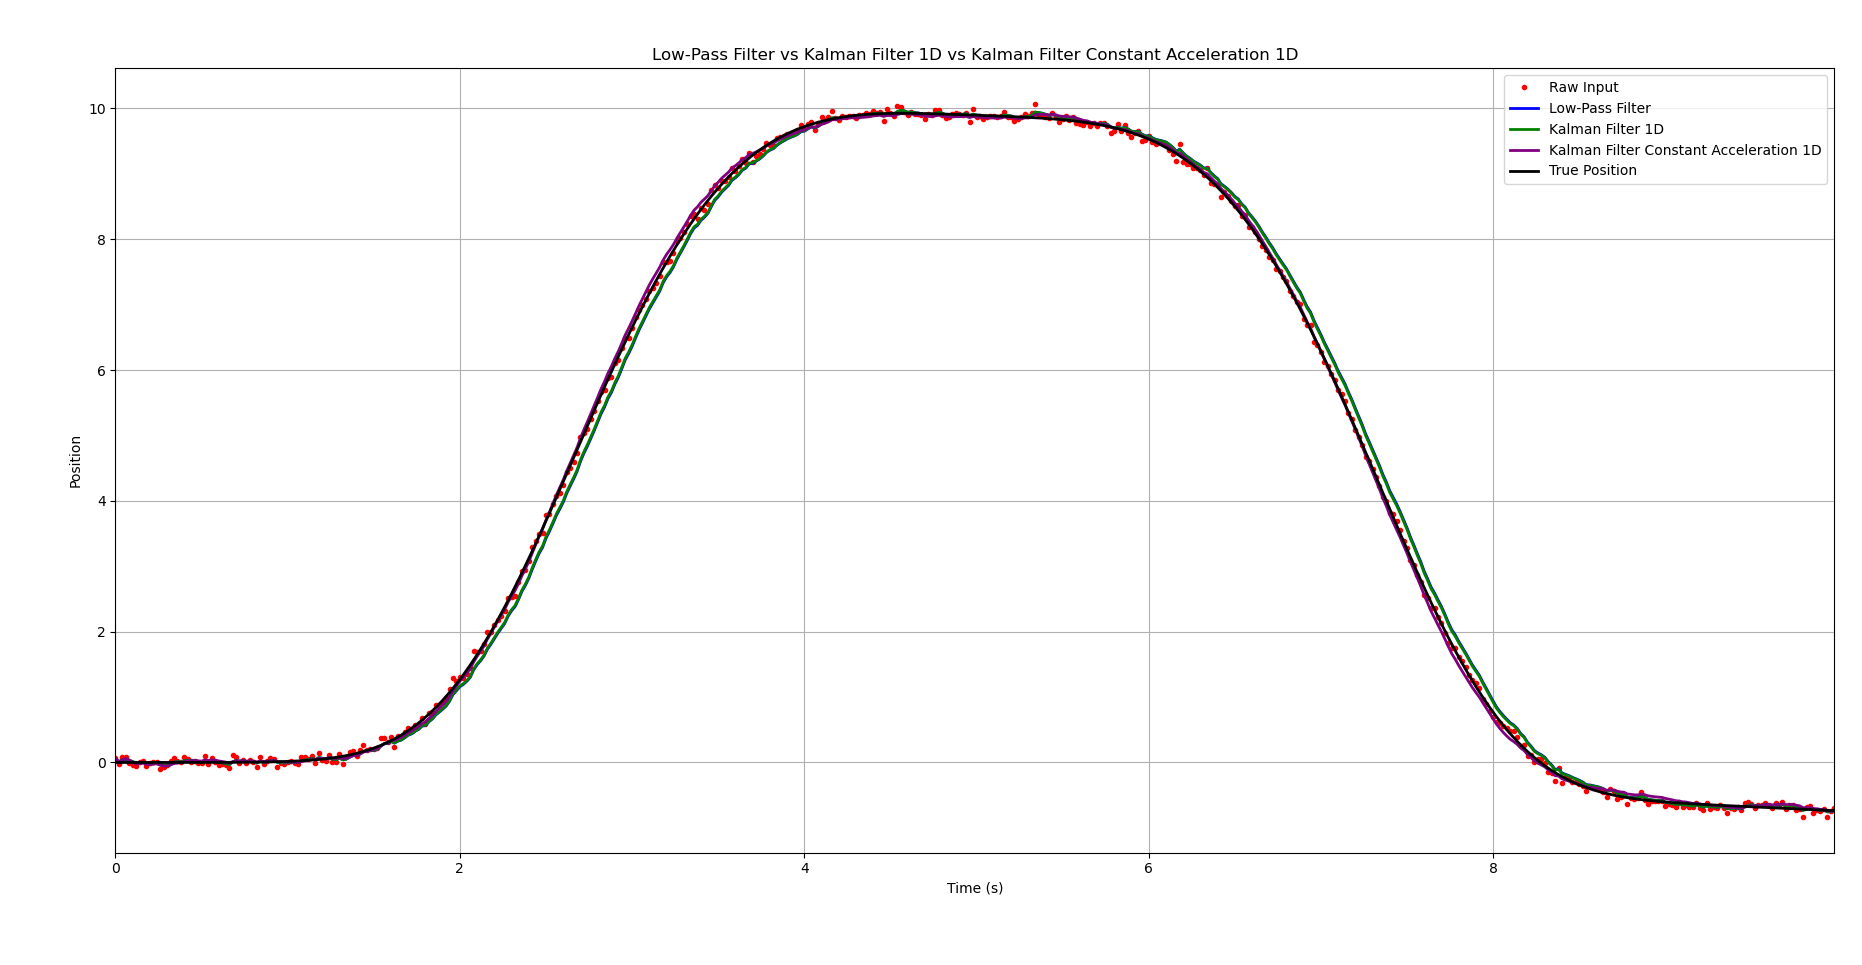
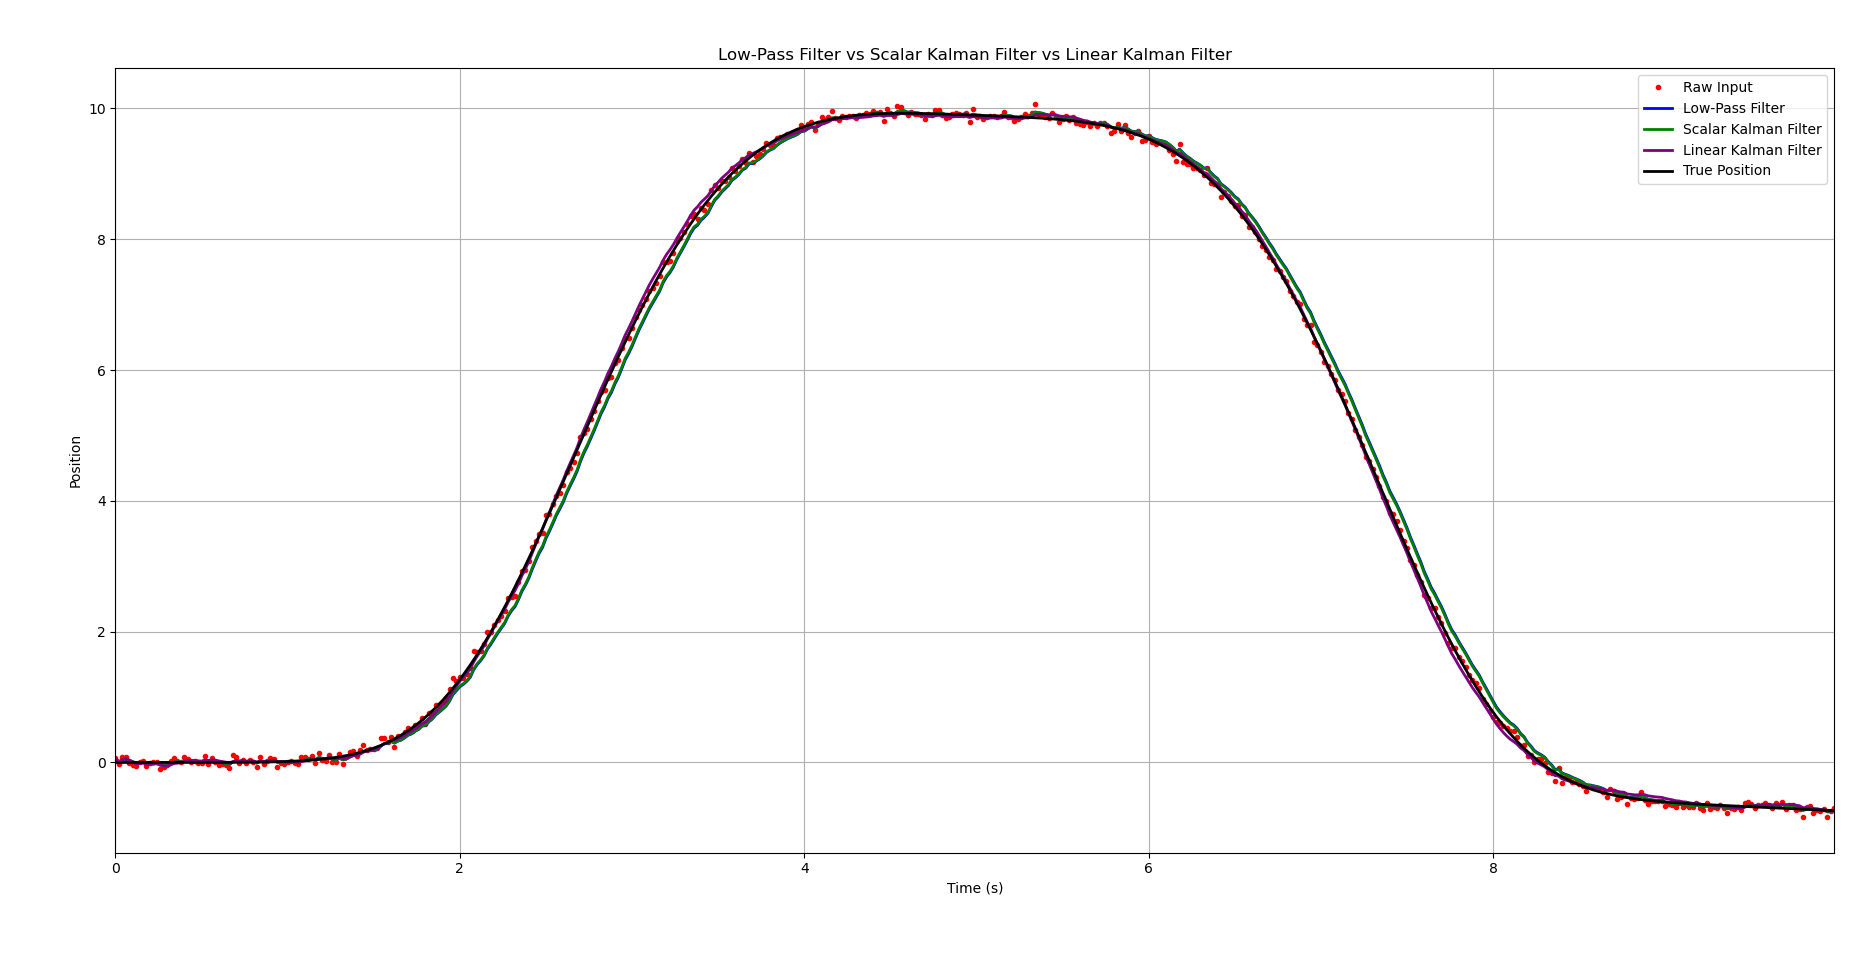
docs: fix math formatting and improve experiment plots
Use fenced math blocks and consistent inline notation in results.md.
Show raw Mehra measurements as dots and mark the correlation start after 200 samples.
Emphasize PASS/FAIL results and clarify plot labels and titles.
Update result figures and remove the redundant method.md.

Changed region(s): [[0.8099, 0.0622, 0.9968, 0.1865], [0.3426, 0.0311, 0.6853, 0.0622]]

diff --git a/scripts/plot_mehra_q_comparison.py b/scripts/plot_mehra_q_comparison.py
@@ -20,8 +20,8 @@ zoom_end_time = 70.0
 fig, axes = plt.subplots(3, 3, figsize=(18, 12), sharex=False)
 
 # Larger Q
+axes[0][0].plot(filter_output_data_q_larger["time"], filter_output_data_q_larger["raw_position"], label="Raw Position", color="red", marker=".", linestyle="None", markersize=3)
 axes[0][0].plot(filter_output_data_q_larger["time"], filter_output_data_q_larger["true_position"], label="True Position", color="black", linewidth=1)
-axes[0][0].plot(filter_output_data_q_larger["time"], filter_output_data_q_larger["raw_position"], label="Raw Position", color="red", linewidth=1)
 axes[0][0].plot(filter_output_data_q_larger["time"], filter_output_data_q_larger["estimated_position"], label="Estimated Position", color="blue", linewidth=1)
 axes[0][0].set_title("Larger Q", fontsize=14)
 axes[0][0].set_ylabel("Position")
@@ -34,7 +34,7 @@ zoom_data_q_larger = filter_output_data_q_larger[
     & (filter_output_data_q_larger["time"] <= zoom_end_time)
 ]
 
-axes[1][0].plot(zoom_data_q_larger["time"], zoom_data_q_larger["raw_position"], color="red", linewidth=1, label="Raw Position")
+axes[1][0].plot(zoom_data_q_larger["time"], zoom_data_q_larger["raw_position"], color="red", marker=".", linestyle="None", markersize=3, label="Raw Position")
 axes[1][0].plot(zoom_data_q_larger["time"], zoom_data_q_larger["true_position"], color="black", linewidth=1.5, label="True Position")
 axes[1][0].plot(zoom_data_q_larger["time"], zoom_data_q_larger["estimated_position"], color="blue", linewidth=1.5, label="Estimated Position")
 axes[1][0].set_xlim(zoom_start_time, zoom_end_time)
@@ -65,13 +65,13 @@ passes_test_q_larger = values_outside_bounds_q_larger < 0.05 * values_checked_q_
 if passes_test_q_larger:
     axes[2][0].set_title(
         f"Outside bounds: {values_outside_bounds_q_larger}/{values_checked_q_larger} "
-        f"({outside_percentage_q_larger:.1f}%) < 5%\nWhiteness test: PASS",
+        f"({outside_percentage_q_larger:.1f}%) < 5%\nWhiteness test: $\\mathbf{{PASS}}$",
         fontsize=10
     )
 else:
     axes[2][0].set_title(
         f"Outside bounds: {values_outside_bounds_q_larger}/{values_checked_q_larger} "
-        f"({outside_percentage_q_larger:.1f}%) >= 5%\nWhiteness test: FAIL",
+        f"({outside_percentage_q_larger:.1f}%) $\\geq$ 5%\nWhiteness test: $\\mathbf{{FAIL}}$",
         fontsize=10
     )
 
@@ -80,8 +80,8 @@ axes[2][0].grid(True)
 
 
 # Matched Q
+axes[0][1].plot(filter_output_data_q_matched["time"], filter_output_data_q_matched["raw_position"], label="Raw Position", color="red", marker=".", linestyle="None", markersize=3)
 axes[0][1].plot(filter_output_data_q_matched["time"], filter_output_data_q_matched["true_position"], label="True Position", color="black", linewidth=1)
-axes[0][1].plot(filter_output_data_q_matched["time"], filter_output_data_q_matched["raw_position"], label="Raw Position", color="red", linewidth=1)
 axes[0][1].plot(filter_output_data_q_matched["time"], filter_output_data_q_matched["estimated_position"], label="Estimated Position", color="blue", linewidth=1)
 axes[0][1].set_title("Matched Q", fontsize=14)
 axes[0][1].set_ylabel("Position")
@@ -94,7 +94,7 @@ zoom_data_q_matched = filter_output_data_q_matched[
     & (filter_output_data_q_matched["time"] <= zoom_end_time)
 ]
 
-axes[1][1].plot(zoom_data_q_matched["time"], zoom_data_q_matched["raw_position"], color="red", linewidth=1, label="Raw Position")
+axes[1][1].plot(zoom_data_q_matched["time"], zoom_data_q_matched["raw_position"], color="red", marker=".", linestyle="None", markersize=3, label="Raw Position")
 axes[1][1].plot(zoom_data_q_matched["time"], zoom_data_q_matched["true_position"], color="black", linewidth=1.5, label="True Position")
 axes[1][1].plot(zoom_data_q_matched["time"], zoom_data_q_matched["estimated_position"], color="blue", linewidth=1.5, label="Estimated Position")
 axes[1][1].set_xlim(zoom_start_time, zoom_end_time)
@@ -125,13 +125,13 @@ passes_test_q_matched = values_outside_bounds_q_matched < 0.05 * values_checked_
 if passes_test_q_matched:
     axes[2][1].set_title(
         f"Outside bounds: {values_outside_bounds_q_matched}/{values_checked_q_matched} "
-        f"({outside_percentage_q_matched:.1f}%) < 5%\nWhiteness test: PASS",
+        f"({outside_percentage_q_matched:.1f}%) < 5%\nWhiteness test: $\\mathbf{{PASS}}$",
         fontsize=10
     )
 else:
     axes[2][1].set_title(
         f"Outside bounds: {values_outside_bounds_q_matched}/{values_checked_q_matched} "
-        f"({outside_percentage_q_matched:.1f}%) >= 5%\nWhiteness test: FAIL",
+        f"({outside_percentage_q_matched:.1f}%) $\\geq$ 5%\nWhiteness test: $\\mathbf{{FAIL}}$",
         fontsize=10
     )
 
@@ -140,8 +140,8 @@ axes[2][1].grid(True)
 
 
 # Smaller Q
+axes[0][2].plot(filter_output_data_q_smaller["time"], filter_output_data_q_smaller["raw_position"], label="Raw Position", color="red", marker=".", linestyle="None", markersize=3)
 axes[0][2].plot(filter_output_data_q_smaller["time"], filter_output_data_q_smaller["true_position"], label="True Position", color="black", linewidth=1)
-axes[0][2].plot(filter_output_data_q_smaller["time"], filter_output_data_q_smaller["raw_position"], label="Raw Position", color="red", linewidth=1)
 axes[0][2].plot(filter_output_data_q_smaller["time"], filter_output_data_q_smaller["estimated_position"], label="Estimated Position", color="blue", linewidth=1)
 axes[0][2].set_title("Smaller Q", fontsize=14)
 axes[0][2].set_ylabel("Position")
@@ -154,7 +154,7 @@ zoom_data_q_smaller = filter_output_data_q_smaller[
     & (filter_output_data_q_smaller["time"] <= zoom_end_time)
 ]
 
-axes[1][2].plot(zoom_data_q_smaller["time"], zoom_data_q_smaller["raw_position"], color="red", linewidth=1, label="Raw Position")
+axes[1][2].plot(zoom_data_q_smaller["time"], zoom_data_q_smaller["raw_position"], color="red", marker=".", linestyle="None", markersize=3, label="Raw Position")
 axes[1][2].plot(zoom_data_q_smaller["time"], zoom_data_q_smaller["true_position"], color="black", linewidth=1.5, label="True Position")
 axes[1][2].plot(zoom_data_q_smaller["time"], zoom_data_q_smaller["estimated_position"], color="blue", linewidth=1.5, label="Estimated Position")
 axes[1][2].set_xlim(zoom_start_time, zoom_end_time)
@@ -185,13 +185,13 @@ passes_test_q_smaller = values_outside_bounds_q_smaller < 0.05 * values_checked_
 if passes_test_q_smaller:
     axes[2][2].set_title(
         f"Outside bounds: {values_outside_bounds_q_smaller}/{values_checked_q_smaller} "
-        f"({outside_percentage_q_smaller:.1f}%) < 5%\nWhiteness test: PASS",
+        f"({outside_percentage_q_smaller:.1f}%) < 5%\nWhiteness test: $\\mathbf{{PASS}}$",
         fontsize=10
     )
 else:
     axes[2][2].set_title(
         f"Outside bounds: {values_outside_bounds_q_smaller}/{values_checked_q_smaller} "
-        f"({outside_percentage_q_smaller:.1f}%) >= 5%\nWhiteness test: FAIL",
+        f"({outside_percentage_q_smaller:.1f}%) $\\geq$ 5%\nWhiteness test: $\\mathbf{{FAIL}}$",
         fontsize=10
     )
 

diff --git a/scripts/plot_mehra_whiteness.py b/scripts/plot_mehra_whiteness.py
@@ -6,10 +6,13 @@ autocorrelation_data = pd.read_csv("./build/examples/normalized_autocorrelation_
 
 bound = autocorrelation_data["bound"].iloc[0]
 
+num_innovations_to_skip = 200
+correlation_start_time = filter_output_data["time"].iloc[num_innovations_to_skip]
+
 fig, axes = plt.subplots(3, 2, figsize=(10, 8), sharex=False)
 
+axes[0][0].plot(filter_output_data["time"], filter_output_data["raw_position"], label="Raw Position", color="red", marker=".", linestyle="None", markersize=3)
 axes[0][0].plot(filter_output_data["time"], filter_output_data["true_position"], label="True Position", color="black", linewidth=1)
-axes[0][0].plot(filter_output_data["time"], filter_output_data["raw_position"], label="Raw Position", color="red", linewidth=1)
 axes[0][0].plot(filter_output_data["time"], filter_output_data["estimated_position"], label="Estimated Position", color="blue", linewidth=1)
 axes[0][0].set_ylabel("Position")
 axes[0][0].set_xlabel("Time (s)")
@@ -23,18 +26,21 @@ axes[1][0].legend()
 axes[1][0].grid(True)
 
 axes[0][1].plot(filter_output_data["time"], filter_output_data["pos_gain"], label="Position Gain", color="red", linewidth=2)
+axes[0][1].axvline(correlation_start_time, color="black", linestyle="-.", linewidth=1.5, label="Correlation data start")
 axes[0][1].set_ylabel("Position Gain")
 axes[0][1].set_xlabel("Time (s)")
 axes[0][1].legend()
 axes[0][1].grid(True)
 
 axes[1][1].plot(filter_output_data["time"], filter_output_data["vel_gain"], label="Velocity Gain", color="red", linewidth=2)
+axes[1][1].axvline(correlation_start_time, color="black", linestyle="-.", linewidth=1.5, label="Correlation data start")
 axes[1][1].set_ylabel("Velocity Gain")
 axes[1][1].set_xlabel("Time (s)")
 axes[1][1].legend()
 axes[1][1].grid(True)
 
 axes[2][1].plot(filter_output_data["time"], filter_output_data["acc_gain"], label="Acceleration Gain", color="red", linewidth=2)
+axes[2][1].axvline(correlation_start_time, color="black", linestyle="-.", linewidth=1.5, label="Correlation data start")
 axes[2][1].set_xlabel("Time (s)")
 axes[2][1].set_ylabel("Acceleration Gain")
 axes[2][1].legend()
@@ -64,12 +70,12 @@ passes_test = values_outside_bounds < 0.05 * values_checked
 if passes_test:
     axes[2][0].set_title(
         f"Outside bounds: {values_outside_bounds}/{values_checked} "
-        f"({outside_percentage:.1f}%) < 5% — Whiteness test: PASS"
+        f"({outside_percentage:.1f}%) < 5% — Whiteness test: $\\mathbf{{PASS}}$"
     )
 else:
     axes[2][0].set_title(
         f"Outside bounds: {values_outside_bounds}/{values_checked} "
-        f"({outside_percentage:.1f}%) >= 5% — Whiteness test: FAIL"
+        f"({outside_percentage:.1f}%) $\\geq$ 5% — Whiteness test: $\\mathbf{{FAIL}}$"
     )
 
 axes[2][0].legend()
@@ -89,7 +95,7 @@ zoom_data = filter_output_data[
 
 zoom_fig, zoom_axes = plt.subplots(figsize=(10, 5))
 
-zoom_axes.plot(zoom_data["time"], zoom_data["raw_position"], color="red", linewidth=1, label="Raw Position")
+zoom_axes.plot(zoom_data["time"], zoom_data["raw_position"], color="red", marker=".", linestyle="None", markersize=3, label="Raw Position")
 
 zoom_axes.plot(zoom_data["time"], zoom_data["true_position"], color="black", linewidth=1.5, label="True Position")
 
@@ -105,5 +111,3 @@ zoom_axes.grid(True)
 zoom_fig.tight_layout()
 
 plt.show(block=True)
-
-# show kalman gains separate and detailed

diff --git a/scripts/plot_filter_comparison.py b/scripts/plot_filter_comparison.py
@@ -6,14 +6,14 @@ df = pd.read_csv("./build/examples/filter_comparison_data.csv")
 plt.figure(figsize=(10, 5))
 plt.plot(df["time"], df["raw_position"], "ro", markersize=3, label="Raw Input")
 plt.plot(df["time"], df["low_pass"], label="Low-Pass Filter", color="blue", linewidth=2)
-plt.plot(df["time"], df["kalman"], label="Kalman Filter 1D", color="green", linewidth=2)
-plt.plot(df["time"], df["kalman_const_acc"], label="Kalman Filter Constant Acceleration 1D", color="purple", linewidth=2)
+plt.plot(df["time"], df["kalman"], label="Scalar Kalman Filter", color="green", linewidth=2)
+plt.plot(df["time"], df["kalman_const_acc"], label="Linear Kalman Filter", color="purple", linewidth=2)
 plt.plot(df["time"], df["true_position"], label="True Position", color="black", linewidth=2)
 
 plt.xlim(df["time"].iloc[0], df["time"].iloc[-1])
 plt.xlabel("Time (s)")
 plt.ylabel("Position")
-plt.title("Low-Pass Filter vs Kalman Filter 1D vs Kalman Filter Constant Acceleration 1D")
+plt.title("Low-Pass Filter vs Scalar Kalman Filter vs Linear Kalman Filter")
 plt.legend()
 plt.grid(True)
 

diff --git a/scripts/plot_tracking_2d.py b/scripts/plot_tracking_2d.py
@@ -7,6 +7,7 @@ fig, axes = plt.subplots(2, 1, figsize=(10, 8), sharex=True)
 
 axes[0].plot(df["time"], df["vel_x_est"], marker="o", label="vel x est - time", color="blue", linewidth=2)
 axes[0].set_ylabel("Vel x est")
+axes[0].set_title("vel x est - time")
 axes[0].legend()
 axes[0].grid(True)
 

diff --git a/docs/results.md b/docs/results.md
@@ -2,22 +2,22 @@
 
 ## Whiteness test and linear kalman filter
 
-[mehra_q_comparison_demo.cpp](../examples/mehra_q_comparison_demo.cpp) and [mehra_whiteness_demo.cpp](../examples/mehra_whiteness_demo.cpp) use the test from Mehra's Section V, implemented in [innovation_analysis.cpp](../src/innovation_analysis.cpp), to analyse correlations between the innovations of a linear Kalman filter and examine how differences between $Q_{assumed}$ and $Q_{true}$ affect these correlations. The same test can also be used to examine the effect of differences between $R_{assumed}$ and $R_{true}$.
+[mehra_q_comparison_demo.cpp](../examples/mehra_q_comparison_demo.cpp) and [mehra_whiteness_demo.cpp](../examples/mehra_whiteness_demo.cpp) use the test from Mehra's Section V, implemented in [innovation_analysis.cpp](../src/innovation_analysis.cpp), to analyse correlations between the innovations of a linear Kalman filter and examine how differences between <i>Q</i><sub>assumed</sub> and <i>Q</i><sub>true</sub> affect these correlations. The same test can also be used to examine the effect of differences between <i>R</i><sub>assumed</sub> and <i>R</i><sub>true</sub>.
 
 ### Linear kalman filter 
 
 Linear kalman filter is implemented in [linear_kalman_filter.cpp](../src/linear_kalman_filter.cpp). It uses following state model:
 
-$$
+```math
 x_i=F x_{i-1}+G u_i+w_i,
 \qquad z_i=Hx_i+\epsilon_i.
-$$
+```
 
 The Kalman filter performs the following prediction and update steps:
 
 **Prediction**
 
-$$
+```math
 \begin{aligned}
 \hat{x}_{i|i-1}
 &= F\hat{x}_{i-1|i-1}+Gu_i
@@ -25,11 +25,11 @@ $$
 P_{i|i-1}
 &= FP_{i-1|i-1}F^T+Q_{\mathrm{assumed}}
 \end{aligned}
-$$
+```
 
 **Update**
 
-$$
+```math
 \begin{aligned}
 K_i
 &= P_{i|i-1}H^T
@@ -43,11 +43,11 @@ P_{i|i}
 &= (I-K_iH)P_{i|i-1}(I-K_iH)^T
    +K_iR_{\mathrm{assumed}}K_i^T
 \end{aligned}
-$$
+```
 
 where
 
-$$
+```math
 \begin{array}{ll}
 x_i \in \mathbb{R}^{n_x \times 1}\text{ — state vector}
 &
@@ -73,44 +73,50 @@ K \in \mathbb{R}^{n_x \times n_z}\text{ — kalman gain}
 &
 \qquad P_i \in \mathbb{R}^{n_x \times n_x}\text{ — estimate covariance}
 \end{array}
-$$
+```
 
-$Q_{\mathrm{true}}$ and $R_{\mathrm{true}}$ are the covariances of the simulated process noise and measurement noise, respectively. $Q_{\mathrm{assumed}}$ and $R_{\mathrm{assumed}}$ are the corresponding covariances assumed in the filter equations and may differ from the true values.
+<i>Q</i><sub>true</sub> and <i>R</i><sub>true</sub> are the covariances of the simulated process noise and measurement noise, respectively. <i>Q</i><sub>assumed</sub> and <i>R</i><sub>assumed</sub> are the corresponding covariances assumed in the filter equations and may differ from the true values.
 
 The process and measurement noises are independent of each other and independent across samples.
 
-The notation $\hat{x}_{i|i-1}$ denotes the predicted state estimate before using measurement $z_i$, while $\hat{x}_{i|i}$ denotes the corrected estimate after using it. The same distinction applies to $P_{i|i-1}$ and $P_{i|i}$.
+The notation $`\hat{x}`$<sub>i|i−1</sub> denotes the predicted state estimate before using measurement <i>z</i><sub>i</sub>, while $`\hat{x}`$<sub>i|i</sub> denotes the corrected estimate after using it. The same distinction applies to <i>P</i><sub>i|i−1</sub> and <i>P</i><sub>i|i</sub>.
 
-The unadorned $x_i$ in the system model denotes the true state; hats mark estimates.
+The unadorned <i>x</i><sub>i</sub> in the system model denotes the true state; hats mark estimates.
 
 ### Whiteness test
 
 Following [Mehra's Section V](https://doi.org/10.1109/TAC.1970.1099422), printed pp. 177–178, the main experiment checks scalar innovations:
 
-$$
+```math
 \nu_i=z_i-H\hat{x}_{i|i-1}.
-$$
+```
 
-After skipping the first $s$ of $T$ samples, $N=T-s$ samples remain.
-For lags $\ell=0,\ldots,L$, where $L$ is the maximum lag, compute
+After skipping the first <i>s</i> of <i>T</i> samples, <i>N</i> = <i>T</i> − <i>s</i> samples remain.
+For lags <i>ℓ</i> = 0, …, <i>L</i>, where <i>L</i> is the maximum lag, compute
 
-$$
-\begin{aligned}
-\widehat C_\ell
-&=\frac{1}{N}\sum_{i=s+\ell}^{T-1}\nu_i\nu_{i-\ell}^{T}
-\\[2em]
+```math
+\widehat{C}_\ell
+=\frac{1}{N}\sum_{i=s+\ell}^{T-1}\nu_i\nu_{i-\ell}^{T}
+```
+
+```math
 [\widehat{\rho}_\ell]_{ij}
-&=
+=
 \frac{[\widehat{C}_\ell]_{ij}}
 {\left([\widehat{C}_0]_{ii}\,[\widehat{C}_0]_{jj}\right)^{1/2}}.
-\end{aligned}
-$$
+```
 
-Here $i,j$ are the row and column indices of the correlation matrix. The test checks only its diagonal elements, where $i=j$.
+Here <i>i</i>, <i>j</i> are the row and column indices of the correlation matrix. The test checks only its diagonal elements, where <i>i</i> = <i>j</i>.
 
 Initial samples are skipped to reduce startup effects. Steady-state operation and zero-mean innovations are assumed, following Mehra.
 
-At lags $1,\ldots,L$, count the correlations outside the approximate 95% bounds $\pm1.96/\sqrt N$. The test passes only when fewer than 5% of the tested correlations lie outside these bounds. Lag zero supplies normalization and is excluded from the count.
+At lags 1, …, <i>L</i>, count the correlations outside the approximate 95% bounds:
+
+```math
+\pm\frac{1.96}{\sqrt{N}}.
+```
+
+The test passes only when fewer than 5% of the tested correlations lie outside these bounds. Lag zero supplies normalization and is excluded from the count.
 
 Passing this finite-sample rule does not prove whiteness.
 
@@ -128,20 +134,20 @@ Visualisation: [plot_mehra_q_comparison.cpp](../scripts/plot_mehra_q_comparison.
 
 | Setting | Value |
 |:---:|:---:|
-| Sampling interval $dt$ | 0.02 s |
+| Sampling interval <i>dt</i> | 0.02 s |
 | Measurements per filter | 4,000 |
-| True initial state $x_0$ | $[0,0.5,0]^T$ |
-| Initial state estimate $\hat{x}_{0\vert0}$ | $[0,0,0]^T$ |
-| Control inputs $u_i$ | $[0]^T$ |
-| Initial estimate covariance $P_{0\vert0}$ | $\begin{bmatrix}1&0&0\\0&1&0\\0&0&1\end{bmatrix}$ |
-| State transition matrix $F$ | $\begin{bmatrix}1&\Delta t&\Delta t^2/2\\0&1&\Delta t\\0&0&1\end{bmatrix}$ |
-| Control matrix $G$ | $[0,0,0]^T$ |
-| Observation matrix $H$ | $[1,0,0]$ |
-| Process noise covariance matrix $Q$ | $q_j\begin{bmatrix}\Delta t^6/36&\Delta t^5/12&\Delta t^4/6\\\Delta t^5/12&\Delta t^4/4&\Delta t^3/2\\\Delta t^4/6&\Delta t^3/2&\Delta t^2\end{bmatrix}$ |
-| True process noise variance $q_{j,\mathrm{true}}$ |  $0.033$ |
-| Assumed process noise variances | $3.3$, $0.033$ and $0.00033$ |
-| True measurement noise variance $R_{\mathrm{true}}$ | $[0.0025]$ |
-| Assumed measurement noise variance $R_{\mathrm{assumed}}$ | $[0.0025]$ |
+| True initial state <i>x</i><sub>0</sub> | [0, 0.5, 0]<sup>T</sup> |
+| Initial state estimate $`\hat{x}`$<sub>0&#124;0</sub> | [0, 0, 0]<sup>T</sup> |
+| Control inputs <i>u</i><sub>i</sub> | [0]<sup>T</sup> |
+| Initial estimate covariance <i>P</i><sub>0&#124;0</sub> | $`\begin{bmatrix}1&0&0\\0&1&0\\0&0&1\end{bmatrix}`$ |
+| State transition matrix <i>F</i> | $`\begin{bmatrix}1&\Delta t&\Delta t^2/2\\0&1&\Delta t\\0&0&1\end{bmatrix}`$ |
+| Control matrix <i>G</i> | [0, 0, 0]<sup>T</sup> |
+| Observation matrix <i>H</i> | [1, 0, 0] |
+| Process noise covariance matrix <i>Q</i> | $`q_j\begin{bmatrix}\Delta t^6/36&\Delta t^5/12&\Delta t^4/6\\\Delta t^5/12&\Delta t^4/4&\Delta t^3/2\\\Delta t^4/6&\Delta t^3/2&\Delta t^2\end{bmatrix}`$ |
+| True process noise variance <i>q</i><sub>j, true</sub> | 0.033 |
+| Assumed process noise variances <i>q</i><sub>j, assumed</sub> | 3.3, 0.033 and 0.00033 |
+| True measurement noise variance <i>R</i><sub>true</sub> | [0.0025] |
+| Assumed measurement noise variance <i>R</i><sub>assumed</sub> | [0.0025] |
 | Startup innovations skipped | 200 |
 | Tested lags | 1–100 |
 
@@ -200,7 +206,7 @@ The bump curve is generated with [synthetic_data.cpp](../examples/data_generatio
 
 The graph shows three different filters.
 The linear Kalman filter uses an assumed process noise variance that is higher than the true process noise variance.
-Without this increase, the filter overshoots because the state transition matrix $F$ describes motion with constant acceleration, while the true trajectory follows a bump curve.
+Without this increase, the filter overshoots because the state transition matrix <i>F</i> describes motion with constant acceleration, while the true trajectory follows a bump curve.
 
 ![Filter comparison](<figures/plot_filter_comparison.png>)
 
